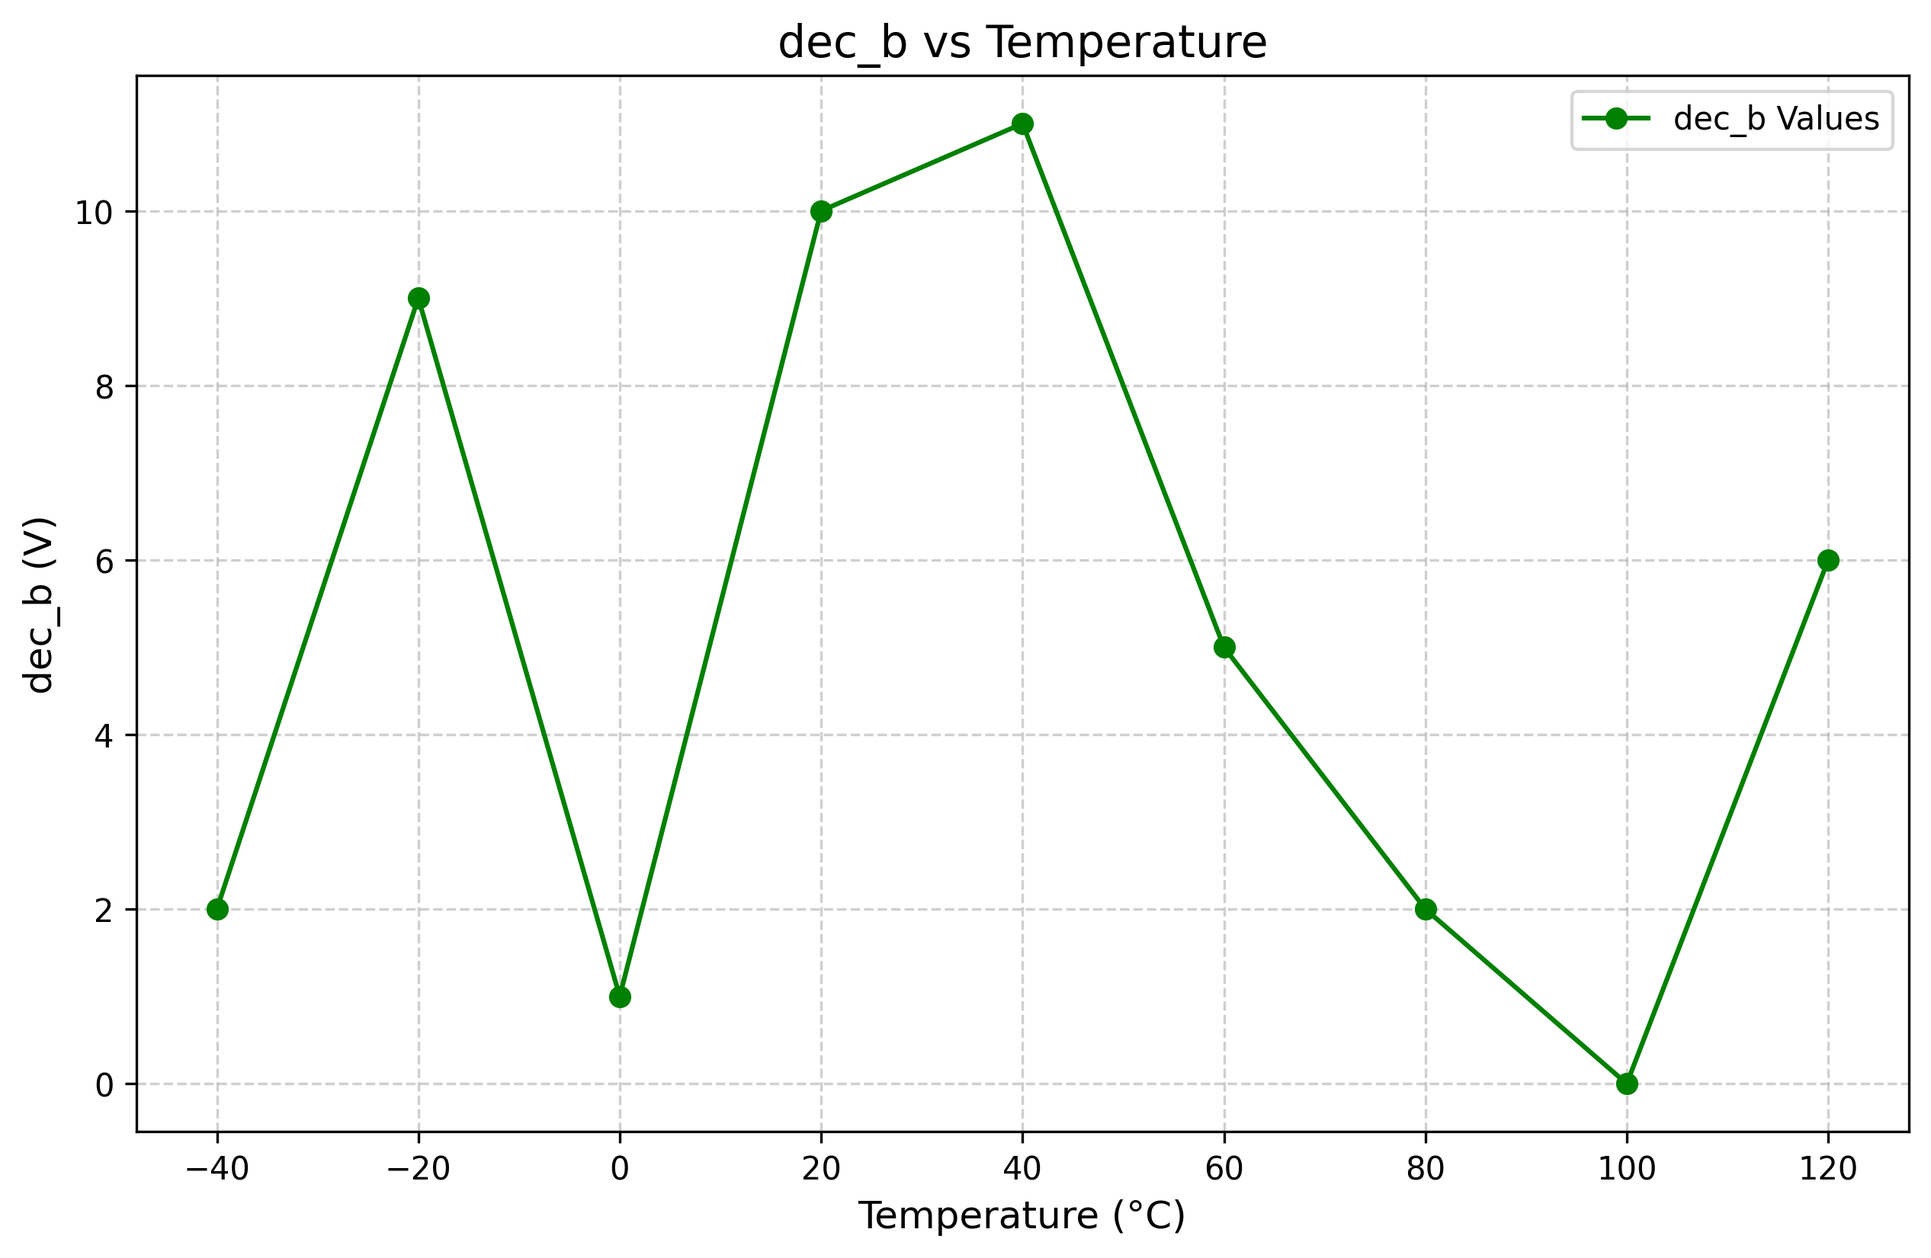
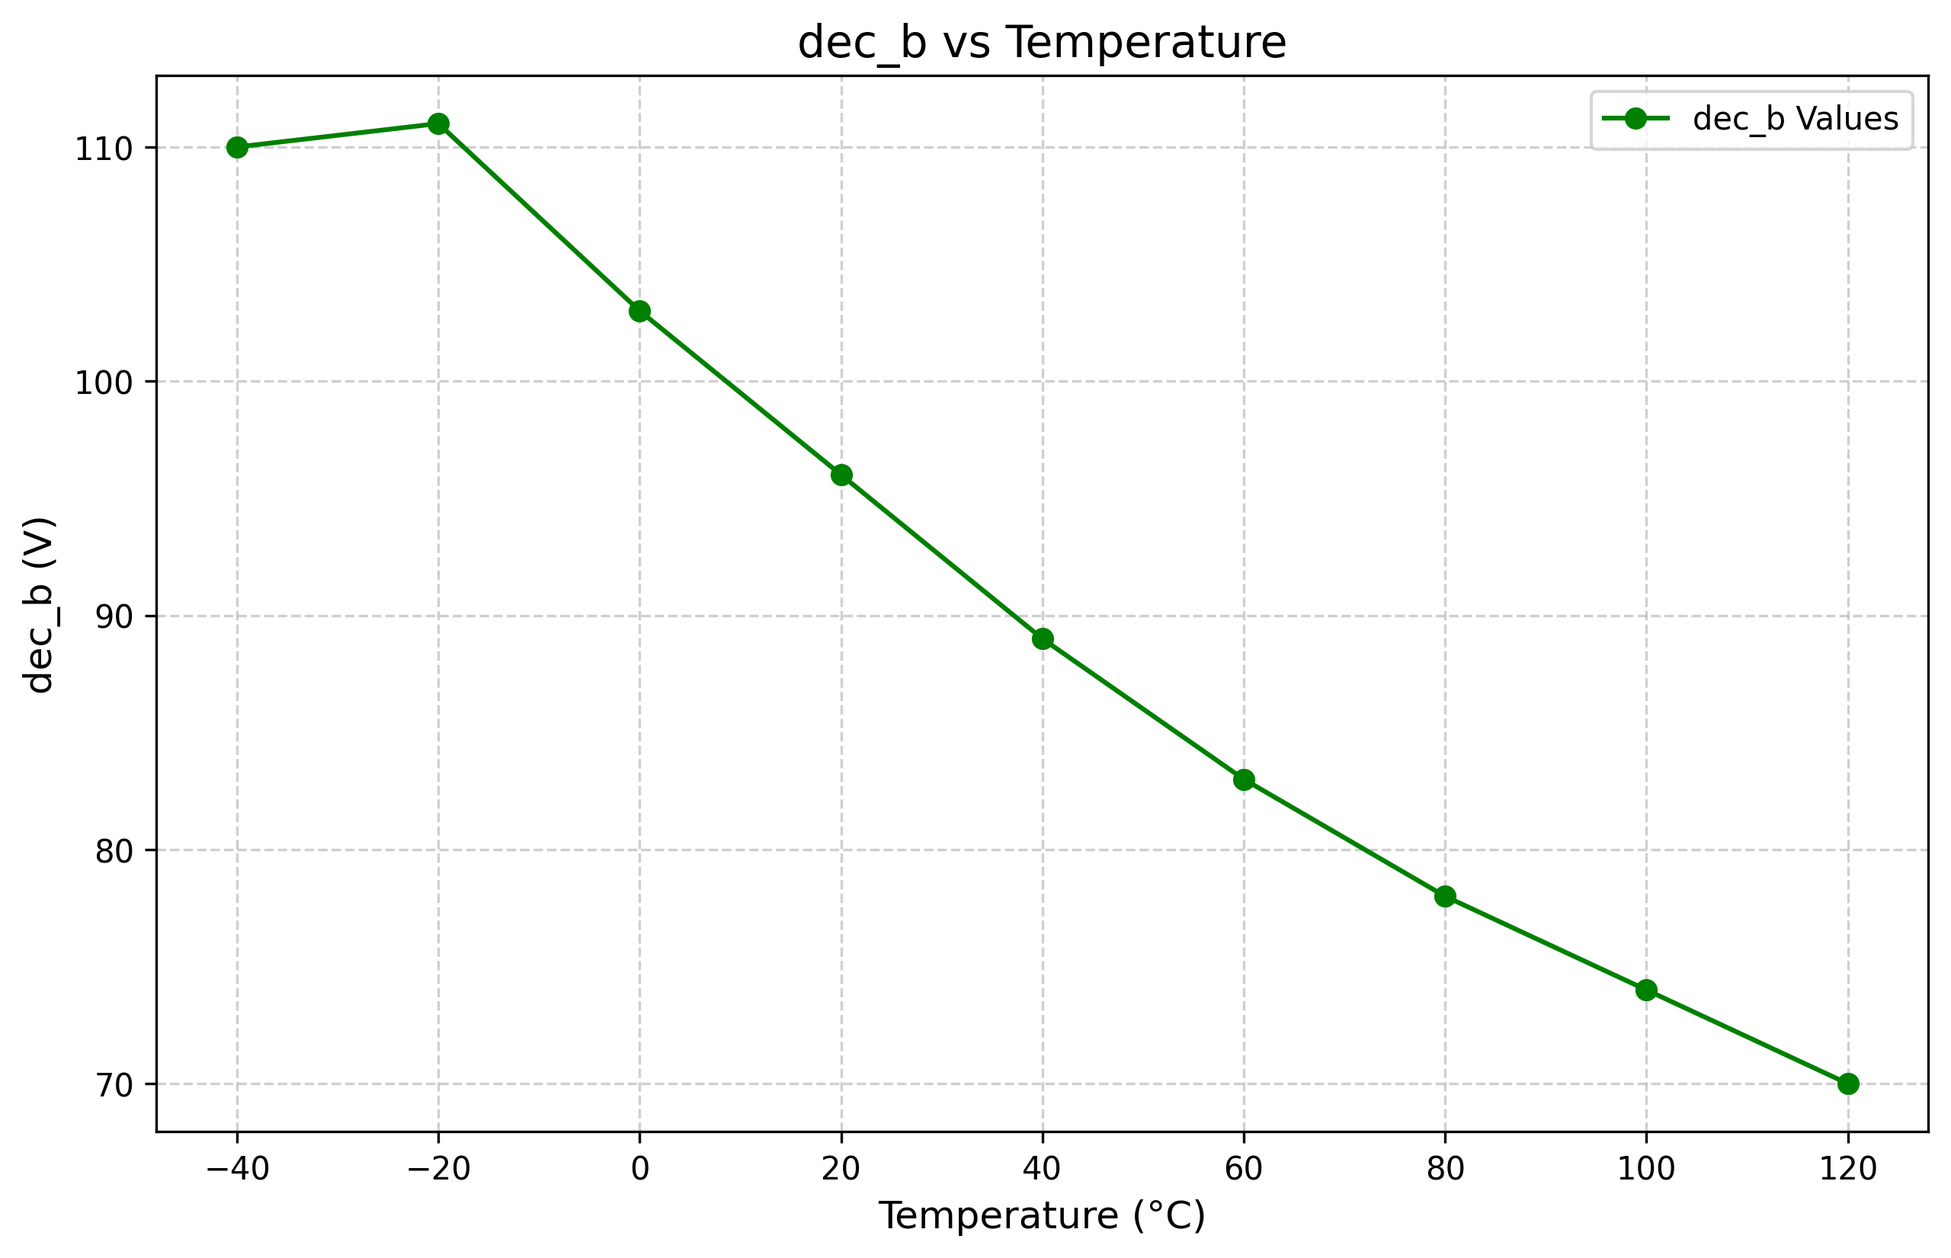
might have fixed the circuit

diff --git a/sim/Comparator/results/tran_Sch_typical.html b/sim/Comparator/results/tran_Sch_typical.html
@@ -61,155 +61,155 @@ table tfoot .links a{
 <body>
     <style type="text/css">
 </style>
-<table id="T_66551">
+<table id="T_f18c4">
   <thead>
     <tr>
       <th class="blank level0" >&nbsp;</th>
-      <th id="T_66551_level0_col0" class="col_heading level0 col0" >dec_b_-40</th>
-      <th id="T_66551_level0_col1" class="col_heading level0 col1" >dec_b_-20</th>
-      <th id="T_66551_level0_col2" class="col_heading level0 col2" >dec_b_0</th>
-      <th id="T_66551_level0_col3" class="col_heading level0 col3" >dec_b_20</th>
-      <th id="T_66551_level0_col4" class="col_heading level0 col4" >dec_b_40</th>
-      <th id="T_66551_level0_col5" class="col_heading level0 col5" >dec_b_60</th>
-      <th id="T_66551_level0_col6" class="col_heading level0 col6" >dec_b_80</th>
-      <th id="T_66551_level0_col7" class="col_heading level0 col7" >dec_b_100</th>
-      <th id="T_66551_level0_col8" class="col_heading level0 col8" >dec_b_120</th>
+      <th id="T_f18c4_level0_col0" class="col_heading level0 col0" >dec_b_-40</th>
+      <th id="T_f18c4_level0_col1" class="col_heading level0 col1" >dec_b_-20</th>
+      <th id="T_f18c4_level0_col2" class="col_heading level0 col2" >dec_b_0</th>
+      <th id="T_f18c4_level0_col3" class="col_heading level0 col3" >dec_b_20</th>
+      <th id="T_f18c4_level0_col4" class="col_heading level0 col4" >dec_b_40</th>
+      <th id="T_f18c4_level0_col5" class="col_heading level0 col5" >dec_b_60</th>
+      <th id="T_f18c4_level0_col6" class="col_heading level0 col6" >dec_b_80</th>
+      <th id="T_f18c4_level0_col7" class="col_heading level0 col7" >dec_b_100</th>
+      <th id="T_f18c4_level0_col8" class="col_heading level0 col8" >dec_b_120</th>
     </tr>
   </thead>
   <tbody>
     <tr>
-      <th id="T_66551_level0_row0" class="row_heading level0 row0" >count</th>
-      <td id="T_66551_row0_col0" class="data row0 col0" >1.00000 V</td>
-      <td id="T_66551_row0_col1" class="data row0 col1" >1.00000 V</td>
-      <td id="T_66551_row0_col2" class="data row0 col2" >1.00000 V</td>
-      <td id="T_66551_row0_col3" class="data row0 col3" >1.00000 V</td>
-      <td id="T_66551_row0_col4" class="data row0 col4" >1.00000 V</td>
-      <td id="T_66551_row0_col5" class="data row0 col5" >1.00000 V</td>
-      <td id="T_66551_row0_col6" class="data row0 col6" >1.00000 V</td>
-      <td id="T_66551_row0_col7" class="data row0 col7" >1.00000 V</td>
-      <td id="T_66551_row0_col8" class="data row0 col8" >1.00000 V</td>
+      <th id="T_f18c4_level0_row0" class="row_heading level0 row0" >count</th>
+      <td id="T_f18c4_row0_col0" class="data row0 col0" >1.00000 V</td>
+      <td id="T_f18c4_row0_col1" class="data row0 col1" >1.00000 V</td>
+      <td id="T_f18c4_row0_col2" class="data row0 col2" >1.00000 V</td>
+      <td id="T_f18c4_row0_col3" class="data row0 col3" >1.00000 V</td>
+      <td id="T_f18c4_row0_col4" class="data row0 col4" >1.00000 V</td>
+      <td id="T_f18c4_row0_col5" class="data row0 col5" >1.00000 V</td>
+      <td id="T_f18c4_row0_col6" class="data row0 col6" >1.00000 V</td>
+      <td id="T_f18c4_row0_col7" class="data row0 col7" >1.00000 V</td>
+      <td id="T_f18c4_row0_col8" class="data row0 col8" >1.00000 V</td>
     </tr>
     <tr>
-      <th id="T_66551_level0_row1" class="row_heading level0 row1" >mean</th>
-      <td id="T_66551_row1_col0" class="data row1 col0" >2.00000 V</td>
-      <td id="T_66551_row1_col1" class="data row1 col1" >9.00000 V</td>
-      <td id="T_66551_row1_col2" class="data row1 col2" >1.00000 V</td>
-      <td id="T_66551_row1_col3" class="data row1 col3" >10.00000 V</td>
-      <td id="T_66551_row1_col4" class="data row1 col4" >11.00000 V</td>
-      <td id="T_66551_row1_col5" class="data row1 col5" >5.00000 V</td>
-      <td id="T_66551_row1_col6" class="data row1 col6" >2.00000 V</td>
-      <td id="T_66551_row1_col7" class="data row1 col7" >0.00000 V</td>
-      <td id="T_66551_row1_col8" class="data row1 col8" >6.00000 V</td>
+      <th id="T_f18c4_level0_row1" class="row_heading level0 row1" >mean</th>
+      <td id="T_f18c4_row1_col0" class="data row1 col0" >110.00000 V</td>
+      <td id="T_f18c4_row1_col1" class="data row1 col1" >111.00000 V</td>
+      <td id="T_f18c4_row1_col2" class="data row1 col2" >103.00000 V</td>
+      <td id="T_f18c4_row1_col3" class="data row1 col3" >96.00000 V</td>
+      <td id="T_f18c4_row1_col4" class="data row1 col4" >89.00000 V</td>
+      <td id="T_f18c4_row1_col5" class="data row1 col5" >83.00000 V</td>
+      <td id="T_f18c4_row1_col6" class="data row1 col6" >78.00000 V</td>
+      <td id="T_f18c4_row1_col7" class="data row1 col7" >74.00000 V</td>
+      <td id="T_f18c4_row1_col8" class="data row1 col8" >70.00000 V</td>
     </tr>
     <tr>
-      <th id="T_66551_level0_row2" class="row_heading level0 row2" >std</th>
-      <td id="T_66551_row2_col0" class="data row2 col0" >nan V</td>
-      <td id="T_66551_row2_col1" class="data row2 col1" >nan V</td>
-      <td id="T_66551_row2_col2" class="data row2 col2" >nan V</td>
-      <td id="T_66551_row2_col3" class="data row2 col3" >nan V</td>
-      <td id="T_66551_row2_col4" class="data row2 col4" >nan V</td>
-      <td id="T_66551_row2_col5" class="data row2 col5" >nan V</td>
-      <td id="T_66551_row2_col6" class="data row2 col6" >nan V</td>
-      <td id="T_66551_row2_col7" class="data row2 col7" >nan V</td>
-      <td id="T_66551_row2_col8" class="data row2 col8" >nan V</td>
+      <th id="T_f18c4_level0_row2" class="row_heading level0 row2" >std</th>
+      <td id="T_f18c4_row2_col0" class="data row2 col0" >nan V</td>
+      <td id="T_f18c4_row2_col1" class="data row2 col1" >nan V</td>
+      <td id="T_f18c4_row2_col2" class="data row2 col2" >nan V</td>
+      <td id="T_f18c4_row2_col3" class="data row2 col3" >nan V</td>
+      <td id="T_f18c4_row2_col4" class="data row2 col4" >nan V</td>
+      <td id="T_f18c4_row2_col5" class="data row2 col5" >nan V</td>
+      <td id="T_f18c4_row2_col6" class="data row2 col6" >nan V</td>
+      <td id="T_f18c4_row2_col7" class="data row2 col7" >nan V</td>
+      <td id="T_f18c4_row2_col8" class="data row2 col8" >nan V</td>
     </tr>
     <tr>
-      <th id="T_66551_level0_row3" class="row_heading level0 row3" >min</th>
-      <td id="T_66551_row3_col0" class="data row3 col0" >2.00000 V</td>
-      <td id="T_66551_row3_col1" class="data row3 col1" >9.00000 V</td>
-      <td id="T_66551_row3_col2" class="data row3 col2" >1.00000 V</td>
-      <td id="T_66551_row3_col3" class="data row3 col3" >10.00000 V</td>
-      <td id="T_66551_row3_col4" class="data row3 col4" >11.00000 V</td>
-      <td id="T_66551_row3_col5" class="data row3 col5" >5.00000 V</td>
-      <td id="T_66551_row3_col6" class="data row3 col6" >2.00000 V</td>
-      <td id="T_66551_row3_col7" class="data row3 col7" >0.00000 V</td>
-      <td id="T_66551_row3_col8" class="data row3 col8" >6.00000 V</td>
+      <th id="T_f18c4_level0_row3" class="row_heading level0 row3" >min</th>
+      <td id="T_f18c4_row3_col0" class="data row3 col0" >110.00000 V</td>
+      <td id="T_f18c4_row3_col1" class="data row3 col1" >111.00000 V</td>
+      <td id="T_f18c4_row3_col2" class="data row3 col2" >103.00000 V</td>
+      <td id="T_f18c4_row3_col3" class="data row3 col3" >96.00000 V</td>
+      <td id="T_f18c4_row3_col4" class="data row3 col4" >89.00000 V</td>
+      <td id="T_f18c4_row3_col5" class="data row3 col5" >83.00000 V</td>
+      <td id="T_f18c4_row3_col6" class="data row3 col6" >78.00000 V</td>
+      <td id="T_f18c4_row3_col7" class="data row3 col7" >74.00000 V</td>
+      <td id="T_f18c4_row3_col8" class="data row3 col8" >70.00000 V</td>
     </tr>
     <tr>
-      <th id="T_66551_level0_row4" class="row_heading level0 row4" >25%</th>
-      <td id="T_66551_row4_col0" class="data row4 col0" >2.00000 V</td>
-      <td id="T_66551_row4_col1" class="data row4 col1" >9.00000 V</td>
-      <td id="T_66551_row4_col2" class="data row4 col2" >1.00000 V</td>
-      <td id="T_66551_row4_col3" class="data row4 col3" >10.00000 V</td>
-      <td id="T_66551_row4_col4" class="data row4 col4" >11.00000 V</td>
-      <td id="T_66551_row4_col5" class="data row4 col5" >5.00000 V</td>
-      <td id="T_66551_row4_col6" class="data row4 col6" >2.00000 V</td>
-      <td id="T_66551_row4_col7" class="data row4 col7" >0.00000 V</td>
-      <td id="T_66551_row4_col8" class="data row4 col8" >6.00000 V</td>
+      <th id="T_f18c4_level0_row4" class="row_heading level0 row4" >25%</th>
+      <td id="T_f18c4_row4_col0" class="data row4 col0" >110.00000 V</td>
+      <td id="T_f18c4_row4_col1" class="data row4 col1" >111.00000 V</td>
+      <td id="T_f18c4_row4_col2" class="data row4 col2" >103.00000 V</td>
+      <td id="T_f18c4_row4_col3" class="data row4 col3" >96.00000 V</td>
+      <td id="T_f18c4_row4_col4" class="data row4 col4" >89.00000 V</td>
+      <td id="T_f18c4_row4_col5" class="data row4 col5" >83.00000 V</td>
+      <td id="T_f18c4_row4_col6" class="data row4 col6" >78.00000 V</td>
+      <td id="T_f18c4_row4_col7" class="data row4 col7" >74.00000 V</td>
+      <td id="T_f18c4_row4_col8" class="data row4 col8" >70.00000 V</td>
     </tr>
     <tr>
-      <th id="T_66551_level0_row5" class="row_heading level0 row5" >50%</th>
-      <td id="T_66551_row5_col0" class="data row5 col0" >2.00000 V</td>
-      <td id="T_66551_row5_col1" class="data row5 col1" >9.00000 V</td>
-      <td id="T_66551_row5_col2" class="data row5 col2" >1.00000 V</td>
-      <td id="T_66551_row5_col3" class="data row5 col3" >10.00000 V</td>
-      <td id="T_66551_row5_col4" class="data row5 col4" >11.00000 V</td>
-      <td id="T_66551_row5_col5" class="data row5 col5" >5.00000 V</td>
-      <td id="T_66551_row5_col6" class="data row5 col6" >2.00000 V</td>
-      <td id="T_66551_row5_col7" class="data row5 col7" >0.00000 V</td>
-      <td id="T_66551_row5_col8" class="data row5 col8" >6.00000 V</td>
+      <th id="T_f18c4_level0_row5" class="row_heading level0 row5" >50%</th>
+      <td id="T_f18c4_row5_col0" class="data row5 col0" >110.00000 V</td>
+      <td id="T_f18c4_row5_col1" class="data row5 col1" >111.00000 V</td>
+      <td id="T_f18c4_row5_col2" class="data row5 col2" >103.00000 V</td>
+      <td id="T_f18c4_row5_col3" class="data row5 col3" >96.00000 V</td>
+      <td id="T_f18c4_row5_col4" class="data row5 col4" >89.00000 V</td>
+      <td id="T_f18c4_row5_col5" class="data row5 col5" >83.00000 V</td>
+      <td id="T_f18c4_row5_col6" class="data row5 col6" >78.00000 V</td>
+      <td id="T_f18c4_row5_col7" class="data row5 col7" >74.00000 V</td>
+      <td id="T_f18c4_row5_col8" class="data row5 col8" >70.00000 V</td>
     </tr>
     <tr>
-      <th id="T_66551_level0_row6" class="row_heading level0 row6" >75%</th>
-      <td id="T_66551_row6_col0" class="data row6 col0" >2.00000 V</td>
-      <td id="T_66551_row6_col1" class="data row6 col1" >9.00000 V</td>
-      <td id="T_66551_row6_col2" class="data row6 col2" >1.00000 V</td>
-      <td id="T_66551_row6_col3" class="data row6 col3" >10.00000 V</td>
-      <td id="T_66551_row6_col4" class="data row6 col4" >11.00000 V</td>
-      <td id="T_66551_row6_col5" class="data row6 col5" >5.00000 V</td>
-      <td id="T_66551_row6_col6" class="data row6 col6" >2.00000 V</td>
-      <td id="T_66551_row6_col7" class="data row6 col7" >0.00000 V</td>
-      <td id="T_66551_row6_col8" class="data row6 col8" >6.00000 V</td>
+      <th id="T_f18c4_level0_row6" class="row_heading level0 row6" >75%</th>
+      <td id="T_f18c4_row6_col0" class="data row6 col0" >110.00000 V</td>
+      <td id="T_f18c4_row6_col1" class="data row6 col1" >111.00000 V</td>
+      <td id="T_f18c4_row6_col2" class="data row6 col2" >103.00000 V</td>
+      <td id="T_f18c4_row6_col3" class="data row6 col3" >96.00000 V</td>
+      <td id="T_f18c4_row6_col4" class="data row6 col4" >89.00000 V</td>
+      <td id="T_f18c4_row6_col5" class="data row6 col5" >83.00000 V</td>
+      <td id="T_f18c4_row6_col6" class="data row6 col6" >78.00000 V</td>
+      <td id="T_f18c4_row6_col7" class="data row6 col7" >74.00000 V</td>
+      <td id="T_f18c4_row6_col8" class="data row6 col8" >70.00000 V</td>
     </tr>
     <tr>
-      <th id="T_66551_level0_row7" class="row_heading level0 row7" >max</th>
-      <td id="T_66551_row7_col0" class="data row7 col0" >2.00000 V</td>
-      <td id="T_66551_row7_col1" class="data row7 col1" >9.00000 V</td>
-      <td id="T_66551_row7_col2" class="data row7 col2" >1.00000 V</td>
-      <td id="T_66551_row7_col3" class="data row7 col3" >10.00000 V</td>
-      <td id="T_66551_row7_col4" class="data row7 col4" >11.00000 V</td>
-      <td id="T_66551_row7_col5" class="data row7 col5" >5.00000 V</td>
-      <td id="T_66551_row7_col6" class="data row7 col6" >2.00000 V</td>
-      <td id="T_66551_row7_col7" class="data row7 col7" >0.00000 V</td>
-      <td id="T_66551_row7_col8" class="data row7 col8" >6.00000 V</td>
+      <th id="T_f18c4_level0_row7" class="row_heading level0 row7" >max</th>
+      <td id="T_f18c4_row7_col0" class="data row7 col0" >110.00000 V</td>
+      <td id="T_f18c4_row7_col1" class="data row7 col1" >111.00000 V</td>
+      <td id="T_f18c4_row7_col2" class="data row7 col2" >103.00000 V</td>
+      <td id="T_f18c4_row7_col3" class="data row7 col3" >96.00000 V</td>
+      <td id="T_f18c4_row7_col4" class="data row7 col4" >89.00000 V</td>
+      <td id="T_f18c4_row7_col5" class="data row7 col5" >83.00000 V</td>
+      <td id="T_f18c4_row7_col6" class="data row7 col6" >78.00000 V</td>
+      <td id="T_f18c4_row7_col7" class="data row7 col7" >74.00000 V</td>
+      <td id="T_f18c4_row7_col8" class="data row7 col8" >70.00000 V</td>
     </tr>
   </tbody>
 </table>
 <style type="text/css">
 </style>
-<table id="T_8aff8">
+<table id="T_0fa08">
   <thead>
     <tr>
-      <th id="T_8aff8_level0_col0" class="col_heading level0 col0" >dec_b_-40</th>
-      <th id="T_8aff8_level0_col1" class="col_heading level0 col1" >dec_b_-20</th>
-      <th id="T_8aff8_level0_col2" class="col_heading level0 col2" >dec_b_0</th>
-      <th id="T_8aff8_level0_col3" class="col_heading level0 col3" >dec_b_20</th>
-      <th id="T_8aff8_level0_col4" class="col_heading level0 col4" >dec_b_40</th>
-      <th id="T_8aff8_level0_col5" class="col_heading level0 col5" >dec_b_60</th>
-      <th id="T_8aff8_level0_col6" class="col_heading level0 col6" >dec_b_80</th>
-      <th id="T_8aff8_level0_col7" class="col_heading level0 col7" >dec_b_100</th>
-      <th id="T_8aff8_level0_col8" class="col_heading level0 col8" >dec_b_120</th>
-      <th id="T_8aff8_level0_col9" class="col_heading level0 col9" >name</th>
-      <th id="T_8aff8_level0_col10" class="col_heading level0 col10" >type</th>
-      <th id="T_8aff8_level0_col11" class="col_heading level0 col11" >time</th>
-      <th id="T_8aff8_level0_col12" class="col_heading level0 col12" >OK</th>
+      <th id="T_0fa08_level0_col0" class="col_heading level0 col0" >dec_b_-40</th>
+      <th id="T_0fa08_level0_col1" class="col_heading level0 col1" >dec_b_-20</th>
+      <th id="T_0fa08_level0_col2" class="col_heading level0 col2" >dec_b_0</th>
+      <th id="T_0fa08_level0_col3" class="col_heading level0 col3" >dec_b_20</th>
+      <th id="T_0fa08_level0_col4" class="col_heading level0 col4" >dec_b_40</th>
+      <th id="T_0fa08_level0_col5" class="col_heading level0 col5" >dec_b_60</th>
+      <th id="T_0fa08_level0_col6" class="col_heading level0 col6" >dec_b_80</th>
+      <th id="T_0fa08_level0_col7" class="col_heading level0 col7" >dec_b_100</th>
+      <th id="T_0fa08_level0_col8" class="col_heading level0 col8" >dec_b_120</th>
+      <th id="T_0fa08_level0_col9" class="col_heading level0 col9" >name</th>
+      <th id="T_0fa08_level0_col10" class="col_heading level0 col10" >type</th>
+      <th id="T_0fa08_level0_col11" class="col_heading level0 col11" >time</th>
+      <th id="T_0fa08_level0_col12" class="col_heading level0 col12" >OK</th>
     </tr>
   </thead>
   <tbody>
     <tr>
-      <td id="T_8aff8_row0_col0" class="data row0 col0" >2.00000 V</td>
-      <td id="T_8aff8_row0_col1" class="data row0 col1" >9.00000 V</td>
-      <td id="T_8aff8_row0_col2" class="data row0 col2" >1.00000 V</td>
-      <td id="T_8aff8_row0_col3" class="data row0 col3" >10.00000 V</td>
-      <td id="T_8aff8_row0_col4" class="data row0 col4" >11.00000 V</td>
-      <td id="T_8aff8_row0_col5" class="data row0 col5" >5.00000 V</td>
-      <td id="T_8aff8_row0_col6" class="data row0 col6" >2.00000 V</td>
-      <td id="T_8aff8_row0_col7" class="data row0 col7" >0.00000 V</td>
-      <td id="T_8aff8_row0_col8" class="data row0 col8" >6.00000 V</td>
-      <td id="T_8aff8_row0_col9" class="data row0 col9" >tran_SchGtKttTtVt</td>
-      <td id="T_8aff8_row0_col10" class="data row0 col10" >Sch</td>
-      <td id="T_8aff8_row0_col11" class="data row0 col11" >Tue Apr  8 09:53:47 2025</td>
-      <td id="T_8aff8_row0_col12" class="data row0 col12" >True</td>
+      <td id="T_0fa08_row0_col0" class="data row0 col0" >110.00000 V</td>
+      <td id="T_0fa08_row0_col1" class="data row0 col1" >111.00000 V</td>
+      <td id="T_0fa08_row0_col2" class="data row0 col2" >103.00000 V</td>
+      <td id="T_0fa08_row0_col3" class="data row0 col3" >96.00000 V</td>
+      <td id="T_0fa08_row0_col4" class="data row0 col4" >89.00000 V</td>
+      <td id="T_0fa08_row0_col5" class="data row0 col5" >83.00000 V</td>
+      <td id="T_0fa08_row0_col6" class="data row0 col6" >78.00000 V</td>
+      <td id="T_0fa08_row0_col7" class="data row0 col7" >74.00000 V</td>
+      <td id="T_0fa08_row0_col8" class="data row0 col8" >70.00000 V</td>
+      <td id="T_0fa08_row0_col9" class="data row0 col9" >tran_SchGtKttTtVt</td>
+      <td id="T_0fa08_row0_col10" class="data row0 col10" >Sch</td>
+      <td id="T_0fa08_row0_col11" class="data row0 col11" >Tue Apr  8 10:52:26 2025</td>
+      <td id="T_0fa08_row0_col12" class="data row0 col12" >True</td>
     </tr>
   </tbody>
 </table>

diff --git a/sim/Comparator/results/tran_Sch_typical.md b/sim/Comparator/results/tran_Sch_typical.md
@@ -5,20 +5,20 @@ For details see <a href='tran_Sch_typical.html'>tran_Sch_typical.html</a>
 |**Name**|**Parameter**|**View**|**Min** | **Typ** | **Max**|
 |:---|:---|:---:|:---:|:---:|:---:|
 |dec_b voltage|dec\_b\_-40 | Spec |  |  |  |
-| | | ('Sch',)|2.00000 V | 2.00000 V | 2.00000 V |
+| | | ('Sch',)|110.00000 V | 110.00000 V | 110.00000 V |
 |dec_b voltage|dec\_b\_-20 | Spec |  |  |  |
-| | | ('Sch',)|9.00000 V | 9.00000 V | 9.00000 V |
+| | | ('Sch',)|111.00000 V | 111.00000 V | 111.00000 V |
 |dec_b voltage|dec\_b\_0 | Spec |  |  |  |
-| | | ('Sch',)|1.00000 V | 1.00000 V | 1.00000 V |
+| | | ('Sch',)|103.00000 V | 103.00000 V | 103.00000 V |
 |dec_b voltage|dec\_b\_20 | Spec |  |  |  |
-| | | ('Sch',)|10.00000 V | 10.00000 V | 10.00000 V |
+| | | ('Sch',)|96.00000 V | 96.00000 V | 96.00000 V |
 |dec_b voltage|dec\_b\_40 | Spec |  |  |  |
-| | | ('Sch',)|11.00000 V | 11.00000 V | 11.00000 V |
+| | | ('Sch',)|89.00000 V | 89.00000 V | 89.00000 V |
 |dec_b voltage|dec\_b\_60 | Spec |  |  |  |
-| | | ('Sch',)|5.00000 V | 5.00000 V | 5.00000 V |
+| | | ('Sch',)|83.00000 V | 83.00000 V | 83.00000 V |
 |dec_b voltage|dec\_b\_80 | Spec |  |  |  |
-| | | ('Sch',)|2.00000 V | 2.00000 V | 2.00000 V |
+| | | ('Sch',)|78.00000 V | 78.00000 V | 78.00000 V |
 |dec_b voltage|dec\_b\_100 | Spec |  |  |  |
-| | | ('Sch',)| |  |  |
+| | | ('Sch',)|74.00000 V | 74.00000 V | 74.00000 V |
 |dec_b voltage|dec\_b\_120 | Spec |  |  |  |
-| | | ('Sch',)|6.00000 V | 6.00000 V | 6.00000 V |
+| | | ('Sch',)|70.00000 V | 70.00000 V | 70.00000 V |
